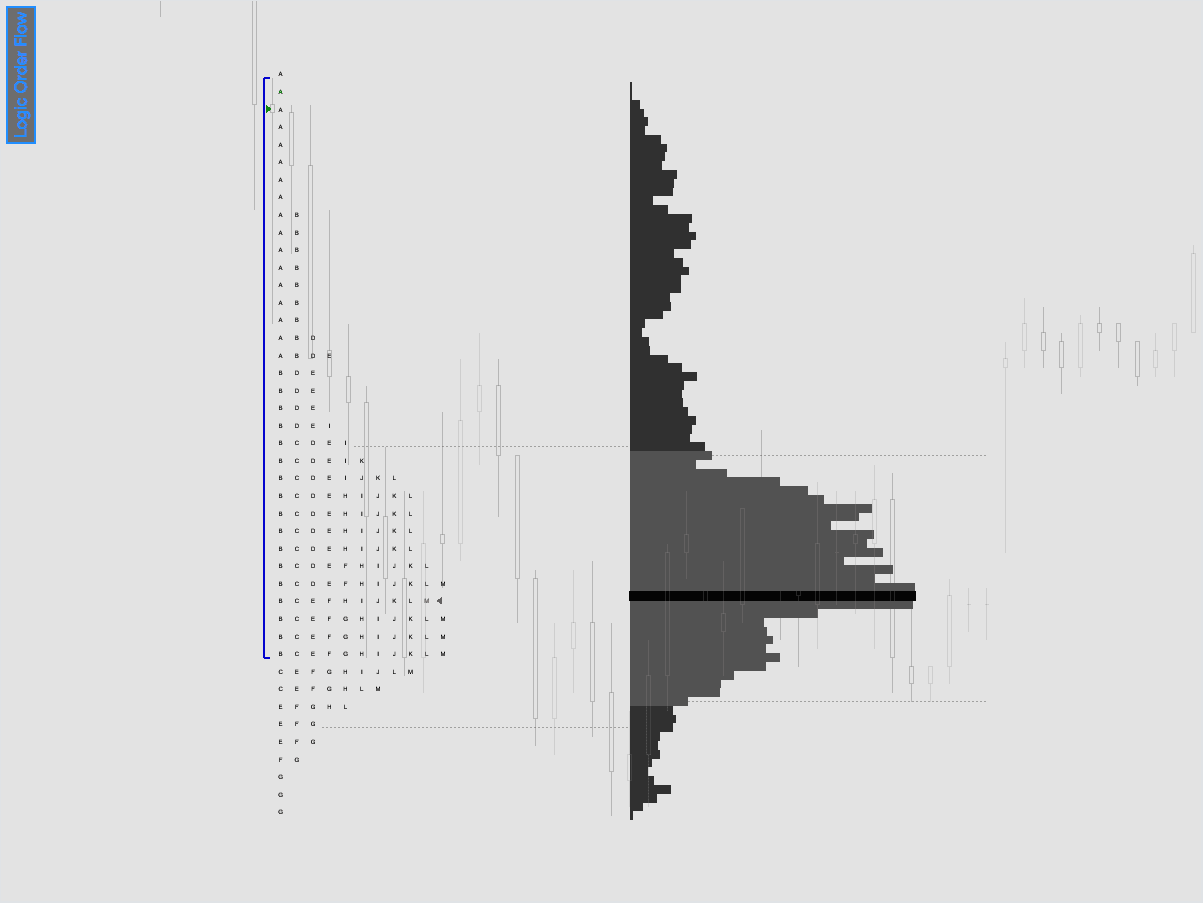
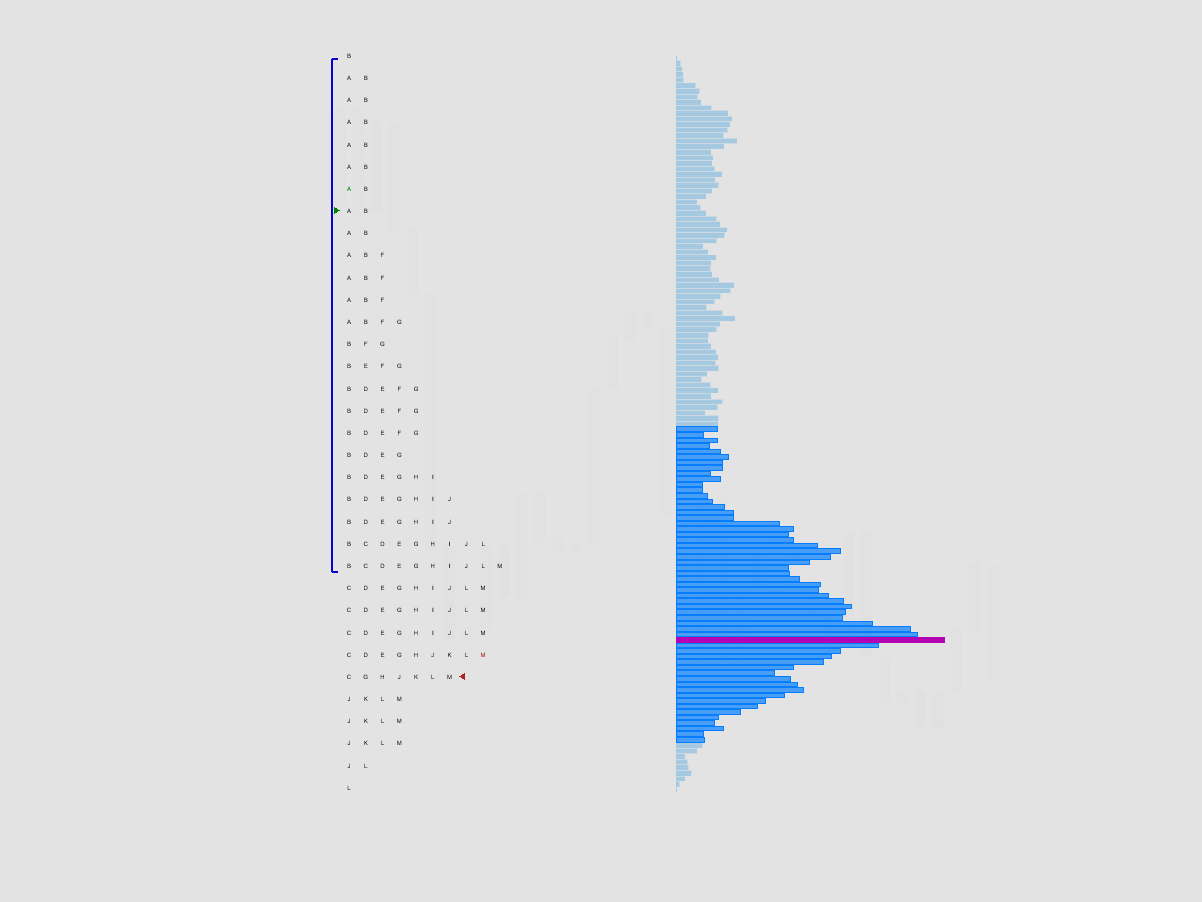
feat(free-indicators,presets): add Logic POC free indicator and update Profile TPO presets

diff --git a/logic-indicators-web/src/pages/FreeIndicators.jsx b/logic-indicators-web/src/pages/FreeIndicators.jsx
@@ -1,4 +1,6 @@
 // src/pages/FreeIndicators.jsx
+import { useState } from 'react';
+import { motion, AnimatePresence } from 'framer-motion';
 import { useLanguage } from '../context/languageContext';
 import { SEO } from '../components/SEO';
 import { Button } from '../components/Button';
@@ -8,11 +10,23 @@ import { AutoCarousel } from '../components/AutoCarousel';
 import { resolveImage } from '../data/imageResolver';
 import { Download, ArrowRight, Sparkles, CheckCircle2 } from 'lucide-react';
 
+const MotionArticle = motion.article;
+
 export const FreeIndicators = () => {
   const { t } = useLanguage();
   const indicators = t('freeIndicators.indicators') || [];
   const downloadCta = t('freeIndicators.downloadCta') || 'Descargar ahora';
   const viewFullCta = t('freeIndicators.viewFullCta') || 'Ver versión completa';
+
+  // Control del indicador activo (por defecto el primero)
+  const [selectedId, setSelectedId] = useState(() => indicators[0]?.id || 'profile-free');
+  const activeIndicator = indicators.find((item) => item.id === selectedId) || indicators[0];
+
+  const contentImages = (activeIndicator?.contentImages || [])
+    .map(resolveImage)
+    .filter(Boolean);
+  const hasCarousel = contentImages.length >= 2;
+  const singleDetail = contentImages.length === 1;
 
   return (
     <>
@@ -22,8 +36,8 @@ export const FreeIndicators = () => {
         type="website"
       />
       <div className="min-h-screen bg-dark-900 pb-24">
-        {/* 1. HERO DE TEXTO */}
-        <section className="pt-16 md:pt-32 pb-12 px-6 text-center bg-[radial-gradient(ellipse_600px_200px_at_center_top,theme(colors.accent.primary/10%)_0%,transparent_70%)]">
+        {/* 1. HERO DE TEXTO Y SELECTOR DE INDICADORES */}
+        <section className="pt-16 md:pt-32 pb-10 px-6 text-center bg-[radial-gradient(ellipse_600px_200px_at_center_top,theme(colors.accent.primary/10%)_0%,transparent_70%)]">
           <div className="max-w-3xl mx-auto">
             <h1 className="text-4xl md:text-5xl font-bold text-text-main tracking-tight mb-4">
               {t('freeIndicators.title')}
@@ -31,139 +45,177 @@ export const FreeIndicators = () => {
             <p className="text-lg text-text-muted leading-relaxed">
               {t('freeIndicators.subtitle')}
             </p>
+
+            {/* Selector de Indicadores (Botones / Pills entre el subtítulo y la tarjeta) */}
+            {indicators.length > 1 && (
+              <div
+                role="tablist"
+                aria-label="Selector de indicadores gratuitos"
+                className="flex items-center justify-center gap-2.5 sm:gap-3.5 mt-8 sm:mt-10 flex-wrap"
+              >
+                {indicators.map((item) => {
+                  const isActive = item.id === activeIndicator?.id;
+                  return (
+                    <button
+                      key={item.id}
+                      type="button"
+                      role="tab"
+                      aria-selected={isActive}
+                      onClick={() => setSelectedId(item.id)}
+                      className={`px-5 sm:px-6 py-2.5 rounded-full text-sm sm:text-base font-bold transition-all duration-200 cursor-pointer select-none active:scale-95 ${
+                        isActive
+                          ? 'bg-accent-primary text-white border border-accent-primary shadow-[0_0_25px_theme(colors.accent.primary/35%)] scale-[1.02]'
+                          : 'bg-dark-800 text-text-muted hover:text-text-main hover:bg-dark-700/80 border border-dark-700 hover:border-dark-600'
+                      }`}
+                    >
+                      {item.shortName || item.name}
+                    </button>
+                  );
+                })}
+              </div>
+            )}
           </div>
         </section>
 
-        {/* 2. LISTA DE INDICADORES GRATUITOS */}
+        {/* 2. TARJETA DINÁMICA DEL INDICADOR ACTIVO */}
         <section className="px-6 container mx-auto max-w-5xl">
-          <div className="space-y-12">
-            {indicators.map((item) => {
-              const contentImages = (item.contentImages || [])
-                .map(resolveImage)
-                .filter(Boolean);
-              const hasCarousel = contentImages.length >= 2;
-              const singleDetail = contentImages.length === 1;
-
-              return (
-                <article
-                  key={item.id}
-                  className="bg-dark-800 border border-dark-700 rounded-3xl overflow-hidden hover:border-dark-600 transition-all shadow-xl"
-                >
-                  <div className="p-6 md:p-10 space-y-8">
-                    {/* Header de la tarjeta con título y badge */}
-                    <div className="flex flex-col sm:flex-row sm:items-center justify-between gap-4 border-b border-dark-700/60 pb-6">
-                      <div>
-                        <div className="flex items-center gap-3 mb-2">
-                          <h2 className="text-2xl md:text-3xl font-bold text-text-main">
-                            {item.name}
-                          </h2>
-                          <span className="inline-flex items-center px-3 py-0.5 rounded-full text-xs font-semibold uppercase tracking-wider bg-emerald-500/15 text-emerald-400 border border-emerald-500/30">
-                            {item.badge}
-                          </span>
-                        </div>
-                        {item.tagline && (
-                          <p className="text-sm md:text-base font-medium text-text-muted">
-                            {item.tagline}
-                          </p>
-                        )}
+          {activeIndicator && (
+            <AnimatePresence mode="wait">
+              <MotionArticle
+                key={activeIndicator.id}
+                initial={{ opacity: 0, y: 14 }}
+                animate={{ opacity: 1, y: 0 }}
+                exit={{ opacity: 0, y: -14 }}
+                transition={{ duration: 0.22, ease: 'easeOut' }}
+                className="bg-dark-800 border border-dark-700 rounded-3xl overflow-hidden hover:border-dark-600 transition-all shadow-xl"
+              >
+                <div className="p-6 md:p-10 space-y-8">
+                  {/* Header de la tarjeta con título y badge */}
+                  <div className="flex flex-col sm:flex-row sm:items-center justify-between gap-4 border-b border-dark-700/60 pb-6">
+                    <div>
+                      <div className="flex items-center gap-3 mb-2">
+                        <h2 className="text-2xl md:text-3xl font-bold text-text-main">
+                          {activeIndicator.name}
+                        </h2>
+                        <span className="inline-flex items-center px-3 py-0.5 rounded-full text-xs font-semibold uppercase tracking-wider bg-emerald-500/15 text-emerald-400 border border-emerald-500/30">
+                          {activeIndicator.badge}
+                        </span>
                       </div>
-                    </div>
-
-                    {/* Previsualización visual / Imagen */}
-                    <div className="overflow-hidden rounded-2xl bg-dark-900 aspect-video md:aspect-[21/9]">
-                      {hasCarousel ? (
-                        <AutoCarousel
-                          images={contentImages}
-                          alt={item.name}
-                          imageClassName="w-full h-full object-cover"
-                        />
-                      ) : singleDetail ? (
-                        <ZoomableImage
-                          src={contentImages[0]}
-                          alt={item.name}
-                          loading="lazy"
-                          className="w-full h-full object-cover"
-                        />
-                      ) : (
-                        <ZoomableImage
-                          src={resolveImage(item.imageKey)}
-                          alt={item.name}
-                          loading="lazy"
-                          className="w-full h-full object-cover"
-                        />
-                      )}
-                    </div>
-
-                    {/* Descripción principal */}
-                    <p className="text-text-muted text-base md:text-lg leading-relaxed">
-                      {item.description}
-                    </p>
-
-                    {/* Características incluidas */}
-                    {Array.isArray(item.features) && item.features.length > 0 && (
-                      <div className="grid grid-cols-1 sm:grid-cols-2 gap-3 pt-2">
-                        {item.features.map((feat, idx) => (
-                          <div key={idx} className="flex items-center gap-2.5 text-text-main text-sm md:text-base">
-                            <CheckCircle2 size={18} className="text-emerald-400 shrink-0" />
-                            <span>{feat}</span>
-                          </div>
-                        ))}
-                      </div>
-                    )}
-
-                    {/* Nota explicativa de versión de prueba */}
-                    {item.trialNotice && (
-                      <div className="bg-accent-secondary/10 border border-accent-secondary/25 rounded-2xl p-5 md:p-6 flex items-start gap-4">
-                        <Sparkles size={24} className="text-accent-secondary shrink-0 mt-0.5" />
-                        <div className="text-sm md:text-base text-text-main leading-relaxed">
-                          <p>{item.trialNotice}</p>
-                        </div>
-                      </div>
-                    )}
-
-                    {/* Botones de acción */}
-                    <div className="flex flex-col sm:flex-row items-center gap-4 pt-4">
-                      <a
-                        href={item.downloadUrl || '#'}
-                        target={item.downloadUrl && item.downloadUrl !== '#' ? '_blank' : undefined}
-                        rel={item.downloadUrl && item.downloadUrl !== '#' ? 'noopener noreferrer' : undefined}
-                        className="w-full sm:w-auto"
-                        onClick={(e) => {
-                          if (item.downloadUrl === '#' || !item.downloadUrl) {
-                            e.preventDefault();
-                            alert('La descarga directa estará disponible próximamente.');
-                          }
-                        }}
-                      >
-                        <Button
-                          variant="primary"
-                          className="w-full sm:w-auto gap-2 text-base px-6 py-3"
-                        >
-                          <Download size={20} />
-                          <span>{downloadCta}</span>
-                        </Button>
-                      </a>
-
-                      {item.fullVersionSlug && (
-                        <Link
-                          to={`/indicators/${item.fullVersionSlug}`}
-                          className="w-full sm:w-auto"
-                        >
-                          <Button
-                            variant="secondary"
-                            className="w-full sm:w-auto gap-2 text-base px-6 py-3"
-                          >
-                            <span>{viewFullCta}</span>
-                            <ArrowRight size={18} />
-                          </Button>
-                        </Link>
+                      {activeIndicator.tagline && (
+                        <p className="text-sm md:text-base font-medium text-text-muted">
+                          {activeIndicator.tagline}
+                        </p>
                       )}
                     </div>
                   </div>
-                </article>
-              );
-            })}
-          </div>
+
+                  {/* Previsualización visual / Imagen */}
+                  <div className="overflow-hidden rounded-2xl bg-dark-900 aspect-video md:aspect-[21/9]">
+                    {hasCarousel ? (
+                      <AutoCarousel
+                        images={contentImages}
+                        alt={activeIndicator.name}
+                        imageClassName="w-full h-full object-cover"
+                      />
+                    ) : singleDetail ? (
+                      <ZoomableImage
+                        src={contentImages[0]}
+                        alt={activeIndicator.name}
+                        loading="lazy"
+                        className="w-full h-full object-cover"
+                      />
+                    ) : (
+                      <ZoomableImage
+                        src={resolveImage(activeIndicator.imageKey)}
+                        alt={activeIndicator.name}
+                        loading="lazy"
+                        className="w-full h-full object-cover"
+                      />
+                    )}
+                  </div>
+
+                  {/* Descripción principal */}
+                  <p className="text-text-muted text-base md:text-lg leading-relaxed whitespace-pre-line">
+                    {activeIndicator.description}
+                  </p>
+
+                  {/* Características incluidas */}
+                  {Array.isArray(activeIndicator.features) && activeIndicator.features.length > 0 && (
+                    <div className="grid grid-cols-1 sm:grid-cols-2 gap-4 pt-2">
+                      {activeIndicator.features.map((feat, idx) => {
+                        const parts = typeof feat === 'string' ? feat.split(': ') : [feat];
+                        const hasTitle = parts.length > 1;
+                        return (
+                          <div key={idx} className="flex items-start gap-2.5 text-sm md:text-base leading-snug">
+                            <CheckCircle2 size={18} className="text-emerald-400 shrink-0 mt-0.5" />
+                            <span>
+                              {hasTitle ? (
+                                <>
+                                  <strong className="font-semibold text-text-main">{parts[0]}: </strong>
+                                  <span className="text-text-muted">{parts.slice(1).join(': ')}</span>
+                                </>
+                              ) : (
+                                <span className="text-text-main">{feat}</span>
+                              )}
+                            </span>
+                          </div>
+                        );
+                      })}
+                    </div>
+                  )}
+
+                  {/* Nota explicativa de versión de prueba */}
+                  {activeIndicator.trialNotice && (
+                    <div className="bg-accent-secondary/10 border border-accent-secondary/25 rounded-2xl p-5 md:p-6 flex items-start gap-4">
+                      <Sparkles size={24} className="text-accent-secondary shrink-0 mt-0.5" />
+                      <div className="text-sm md:text-base text-text-main leading-relaxed">
+                        <p>{activeIndicator.trialNotice}</p>
+                      </div>
+                    </div>
+                  )}
+
+                  {/* Botones de acción */}
+                  <div className="flex flex-col sm:flex-row items-center gap-4 pt-4">
+                    <a
+                      href={activeIndicator.downloadUrl || '#'}
+                      target={activeIndicator.downloadUrl && activeIndicator.downloadUrl !== '#' ? '_blank' : undefined}
+                      rel={activeIndicator.downloadUrl && activeIndicator.downloadUrl !== '#' ? 'noopener noreferrer' : undefined}
+                      className="w-full sm:w-auto"
+                      onClick={(e) => {
+                        if (activeIndicator.downloadUrl === '#' || !activeIndicator.downloadUrl) {
+                          e.preventDefault();
+                          alert('La descarga directa estará disponible próximamente.');
+                        }
+                      }}
+                    >
+                      <Button
+                        variant="primary"
+                        className="w-full sm:w-auto gap-2 text-base px-6 py-3"
+                      >
+                        <Download size={20} />
+                        <span>{downloadCta}</span>
+                      </Button>
+                    </a>
+
+                    {activeIndicator.fullVersionSlug && (
+                      <Link
+                        to={`/indicators/${activeIndicator.fullVersionSlug}`}
+                        className="w-full sm:w-auto"
+                      >
+                        <Button
+                          variant="secondary"
+                          className="w-full sm:w-auto gap-2 text-base px-6 py-3"
+                        >
+                          <span>{viewFullCta}</span>
+                          <ArrowRight size={18} />
+                        </Button>
+                      </Link>
+                    )}
+                  </div>
+                </div>
+              </MotionArticle>
+            </AnimatePresence>
+          )}
         </section>
       </div>
     </>

diff --git a/logic-indicators-web/src/data/imageResolver.js b/logic-indicators-web/src/data/imageResolver.js
@@ -46,6 +46,8 @@ import depthlive_d1Image from '../assets/indicators/depthlive_d1.png';
 import depthlive_d2Image from '../assets/indicators/depthlive_d2.png';
 import depthlive_d3Image from '../assets/indicators/depthlive_d3.png';
 import depthPackImage from '../assets/indicators/depth_pack.png';
+import pocImage from '../assets/indicators/poc.png';
+import poc_d01Image from '../assets/indicators/poc_d1.png';
 // Imagenes del tutorial de instalacion en NinjaTrader 8.
 // Usadas en el primer paso del wizard de instalacion (segun /resources
 // en el schema del step tipo 'tutorial' en installation.js).
@@ -83,6 +85,7 @@ import presetFooterHeatmapBasic from '../assets/presets/preset_footer_heatmap_ba
 
 // Presets individuales - Logic Profile
 import presetProfileTpoBlackLight from '../assets/presets/preset_profile_tpo_black_light.png';
+import presetProfileTpoLogicDark from '../assets/presets/preset_profile_tpo_logic_dark.png';
 import presetProfileTpoMagenta2Light from '../assets/presets/preset_profile_tpo_magenta_2_light.png';
 import presetProfileTpoMagentaLight from '../assets/presets/preset_profile_tpo_magenta_light.png';
 import presetProfileTpoMinimalistLight from '../assets/presets/preset_profile_tpo_minimalist_light.png';
@@ -166,6 +169,7 @@ export const imageMap = {
 
   // Presets Logic Profile
   preset_profile_tpo_black_light: presetProfileTpoBlackLight,
+  preset_profile_tpo_logic_dark: presetProfileTpoLogicDark,
   preset_profile_tpo_magenta_2_light: presetProfileTpoMagenta2Light,
   preset_profile_tpo_magenta_light: presetProfileTpoMagentaLight,
   preset_profile_tpo_minimalist_light: presetProfileTpoMinimalistLight,
@@ -239,6 +243,8 @@ export const imageMap = {
   depth_chart: depthchartImage,
   depthlive: depthliveImage,
   depth_live: depthliveImage,
+  poc: pocImage,
+  logic_poc: pocImage,
   depth_pack: depthPackImage,
   depthpack: depthPackImage,
   'depth_pack.png': depthPackImage,
@@ -271,6 +277,10 @@ export const imageMap = {
   depthlive_d1: depthlive_d1Image,
   depthlive_d2: depthlive_d2Image,
   depthlive_d3: depthlive_d3Image,
+  poc_d1: poc_d01Image,
+  poc_d2: poc_d01Image,
+  poc_01: poc_d01Image,
+  poc_02: poc_d01Image,
 
   // Tutorial de importacion de presets (pagina /resources/presets).
   tutorial_step_1: downloadPresetImage,
